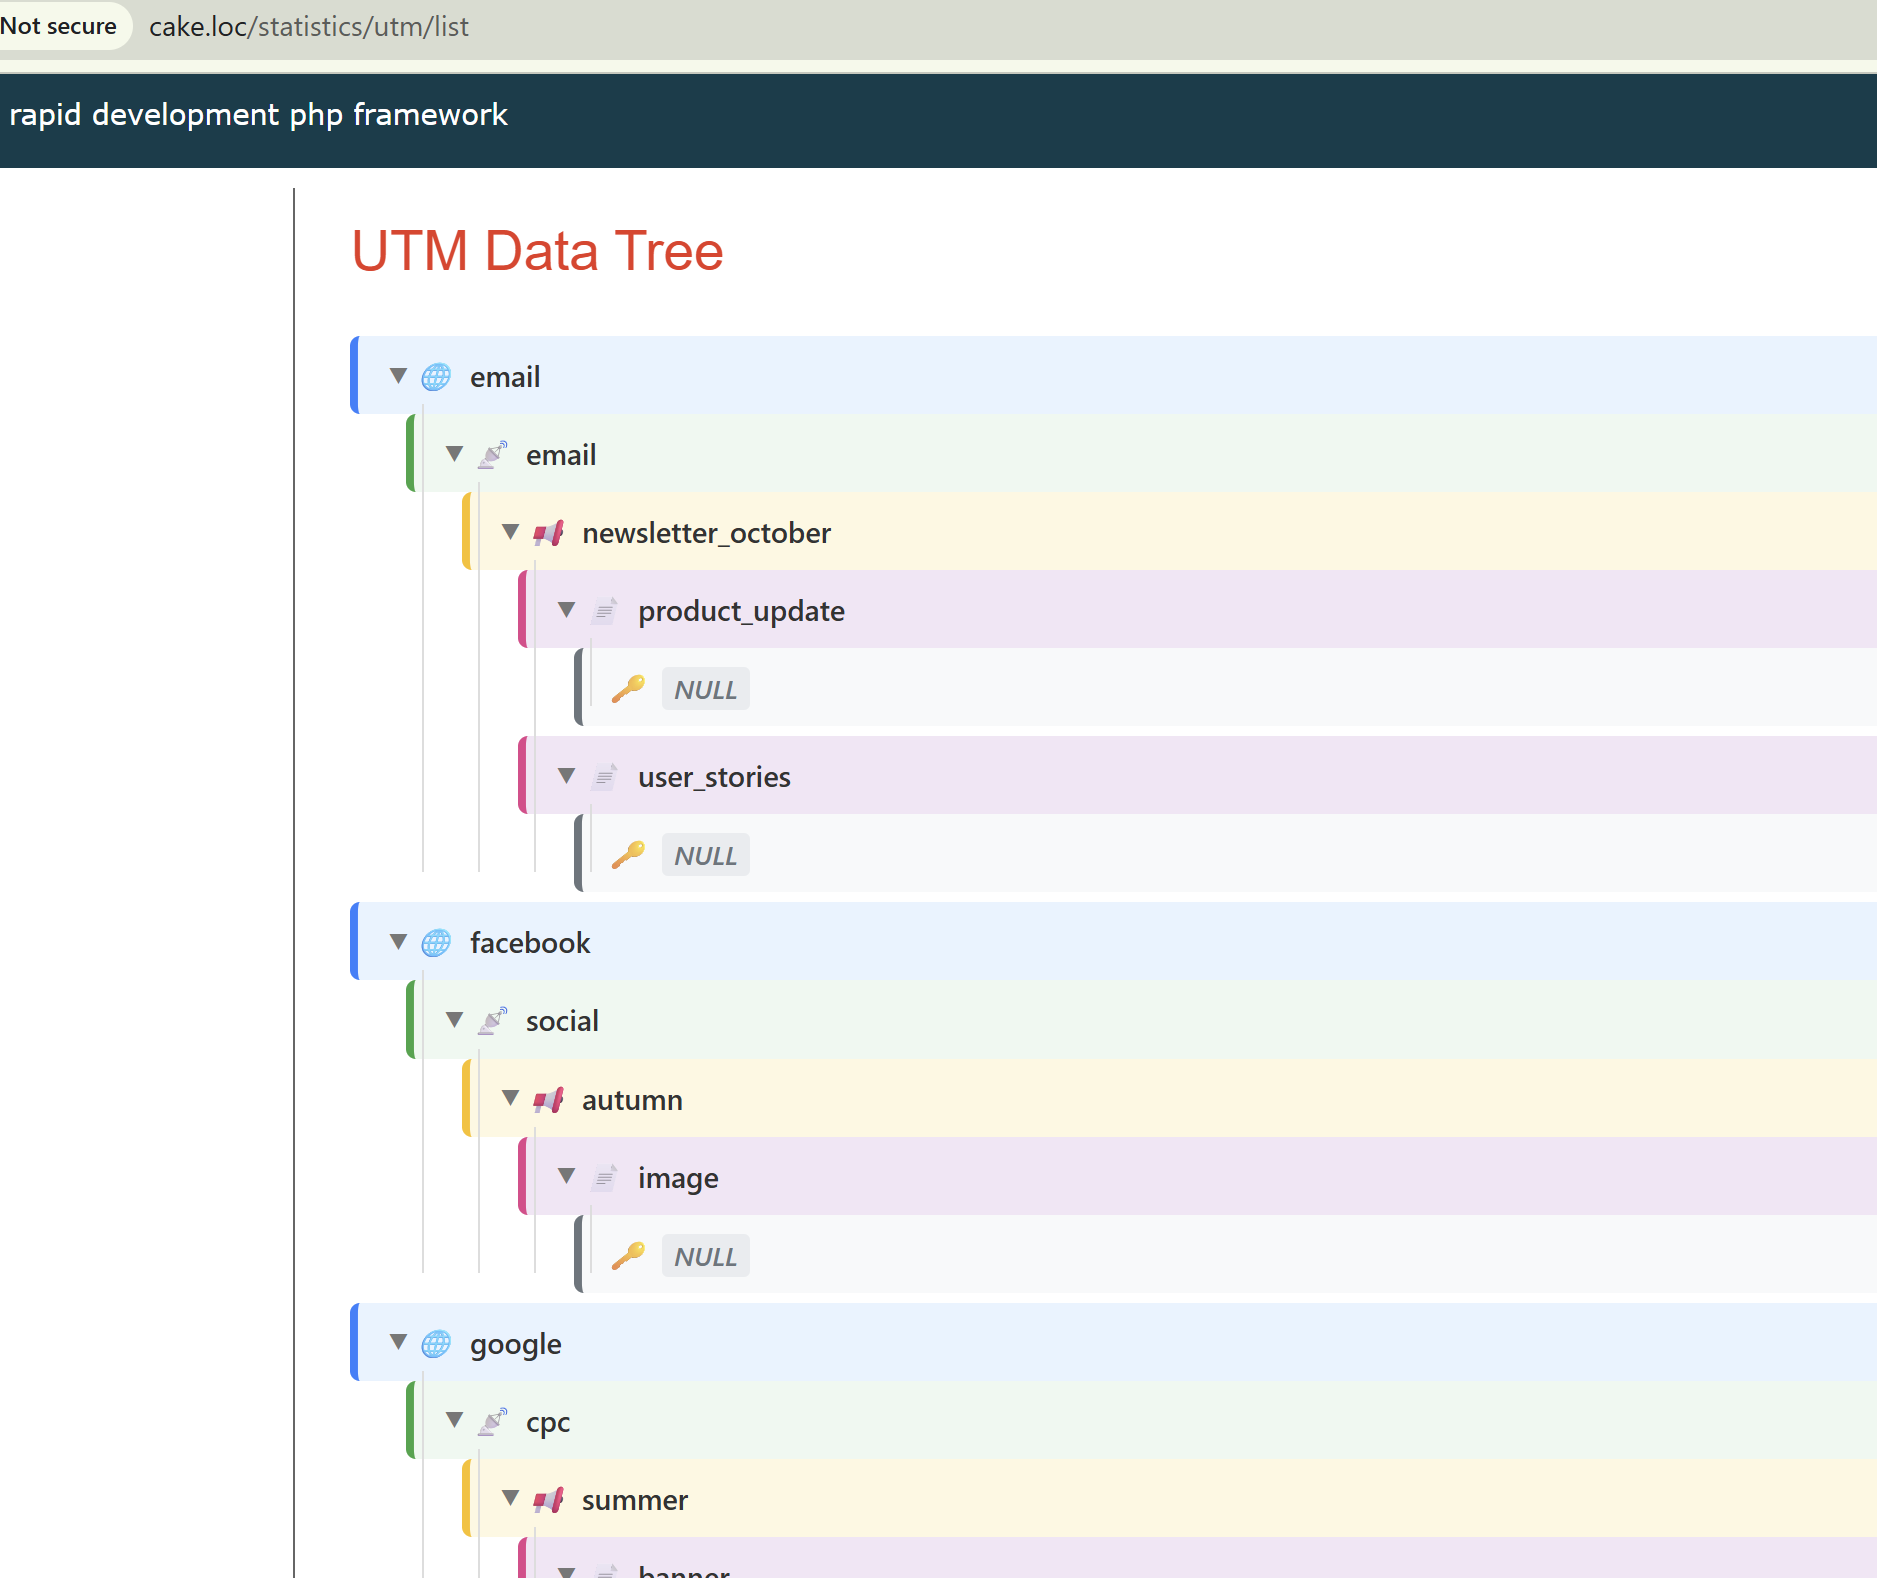
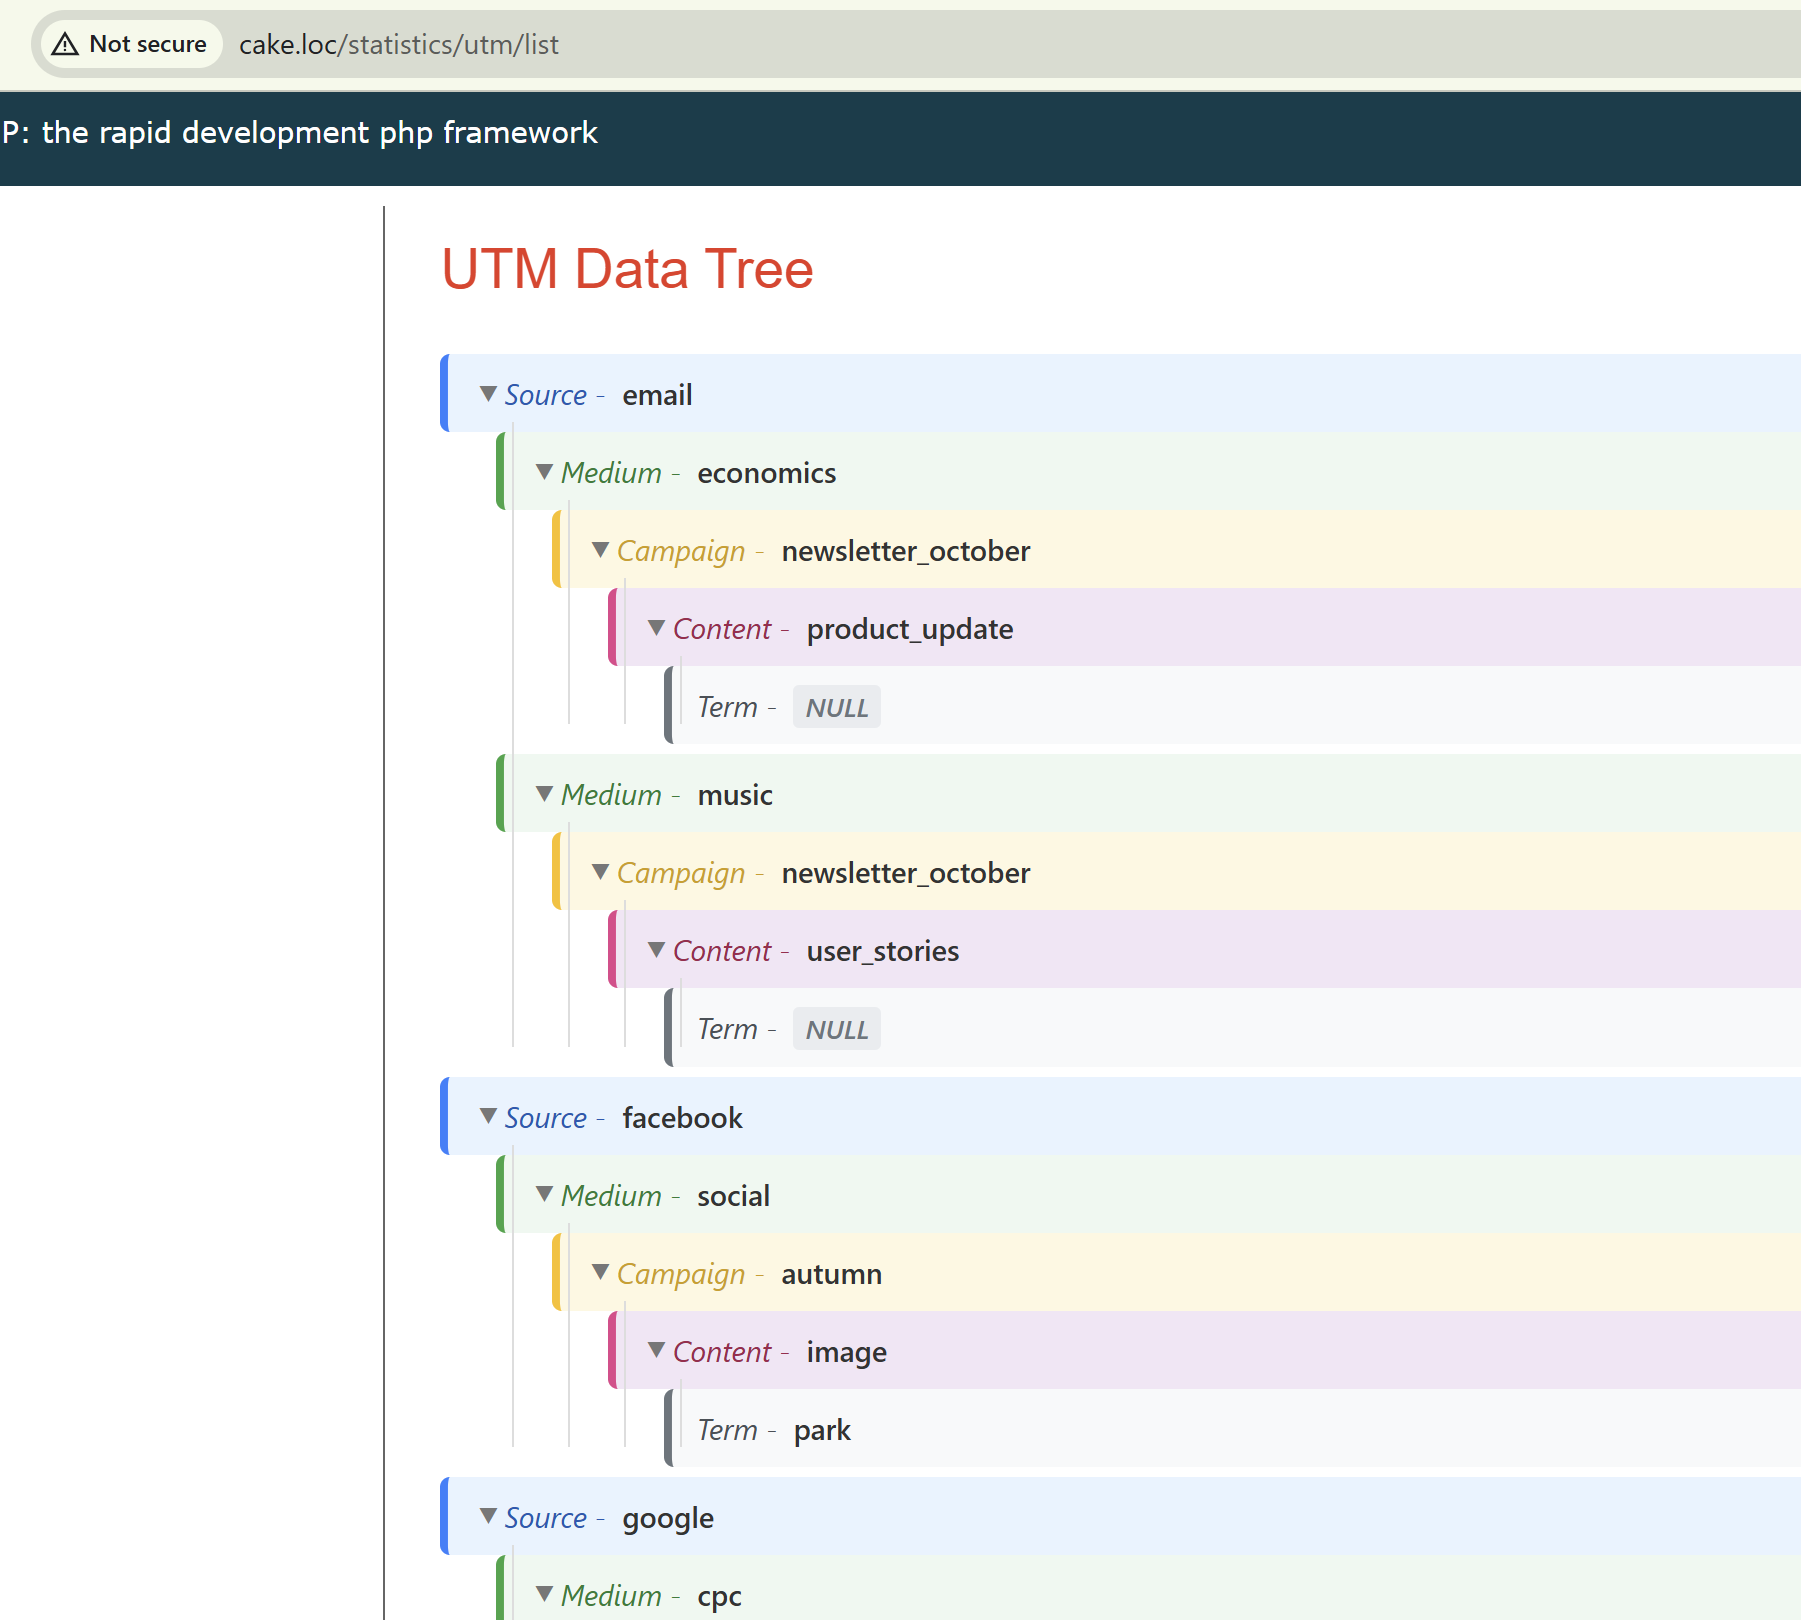
TASK-001: view update

diff --git a/app/Console/Command/UtmDataSeedShell.php b/app/Console/Command/UtmDataSeedShell.php
@@ -35,7 +35,7 @@ class UtmDataSeedShell extends AppShell {
 				'medium' => 'social',
 				'campaign' => 'autumn',
 				'content' => 'image',
-				'term' => null
+				'term' => 'park'
 			),
 			array(
 				'source' => 'twitter',
@@ -114,14 +114,14 @@ class UtmDataSeedShell extends AppShell {
 
 			array(
 				'source' => 'email',
-				'medium' => 'email',
+				'medium' => 'economics',
 				'campaign' => 'newsletter_october',
 				'content' => 'product_update',
 				'term' => null
 			),
 			array(
 				'source' => 'email',
-				'medium' => 'email',
+				'medium' => 'music',
 				'campaign' => 'newsletter_october',
 				'content' => 'user_stories',
 				'term' => null
